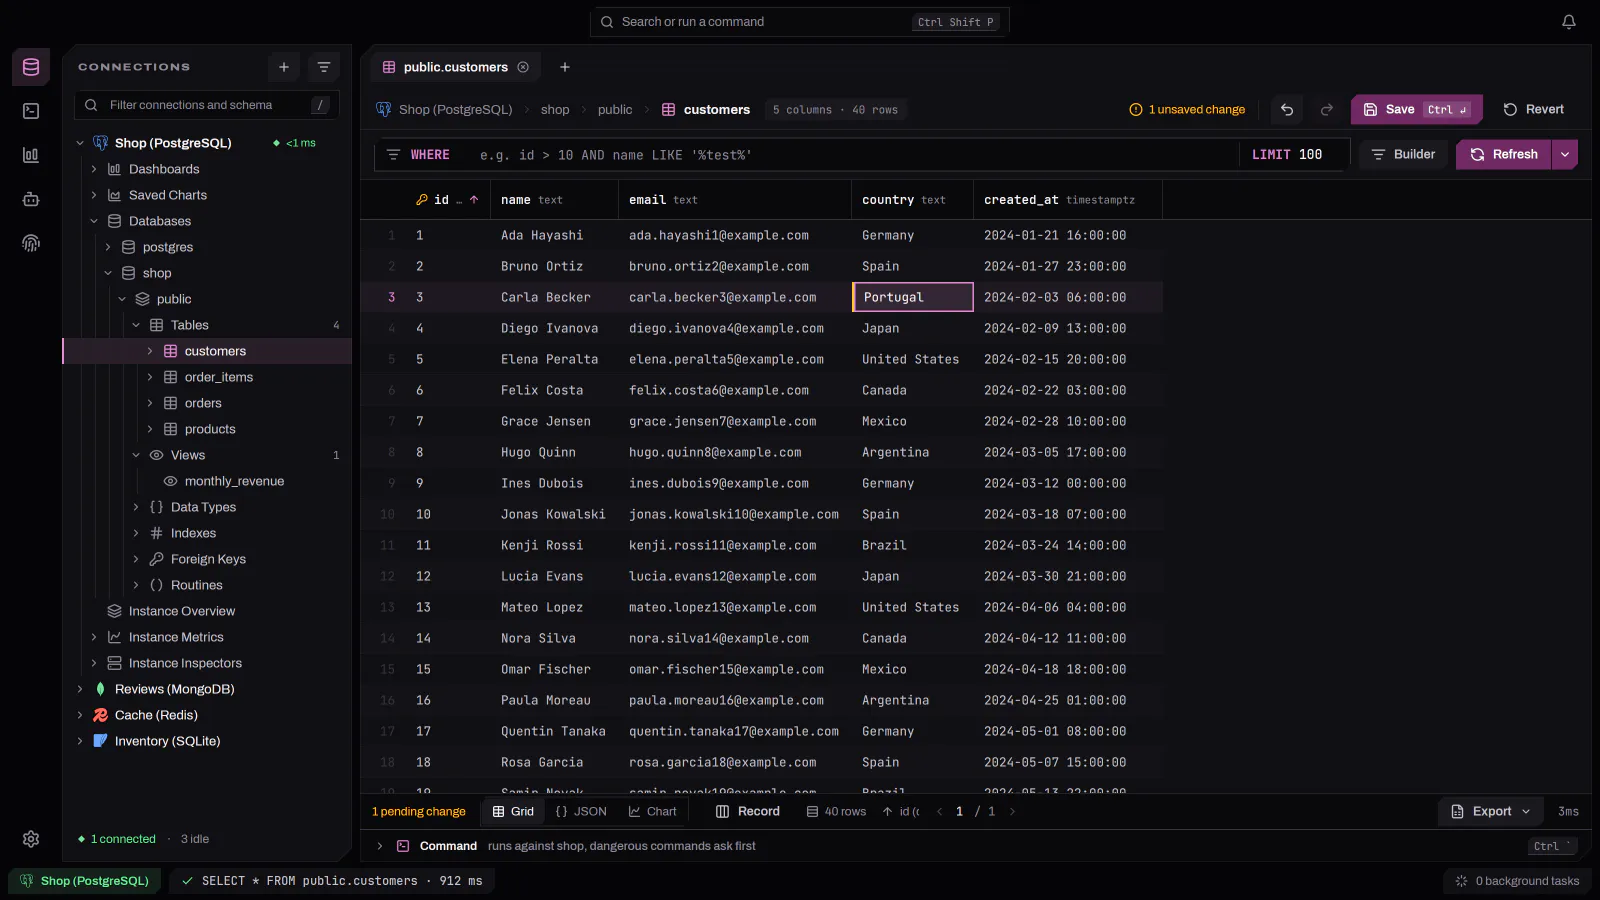
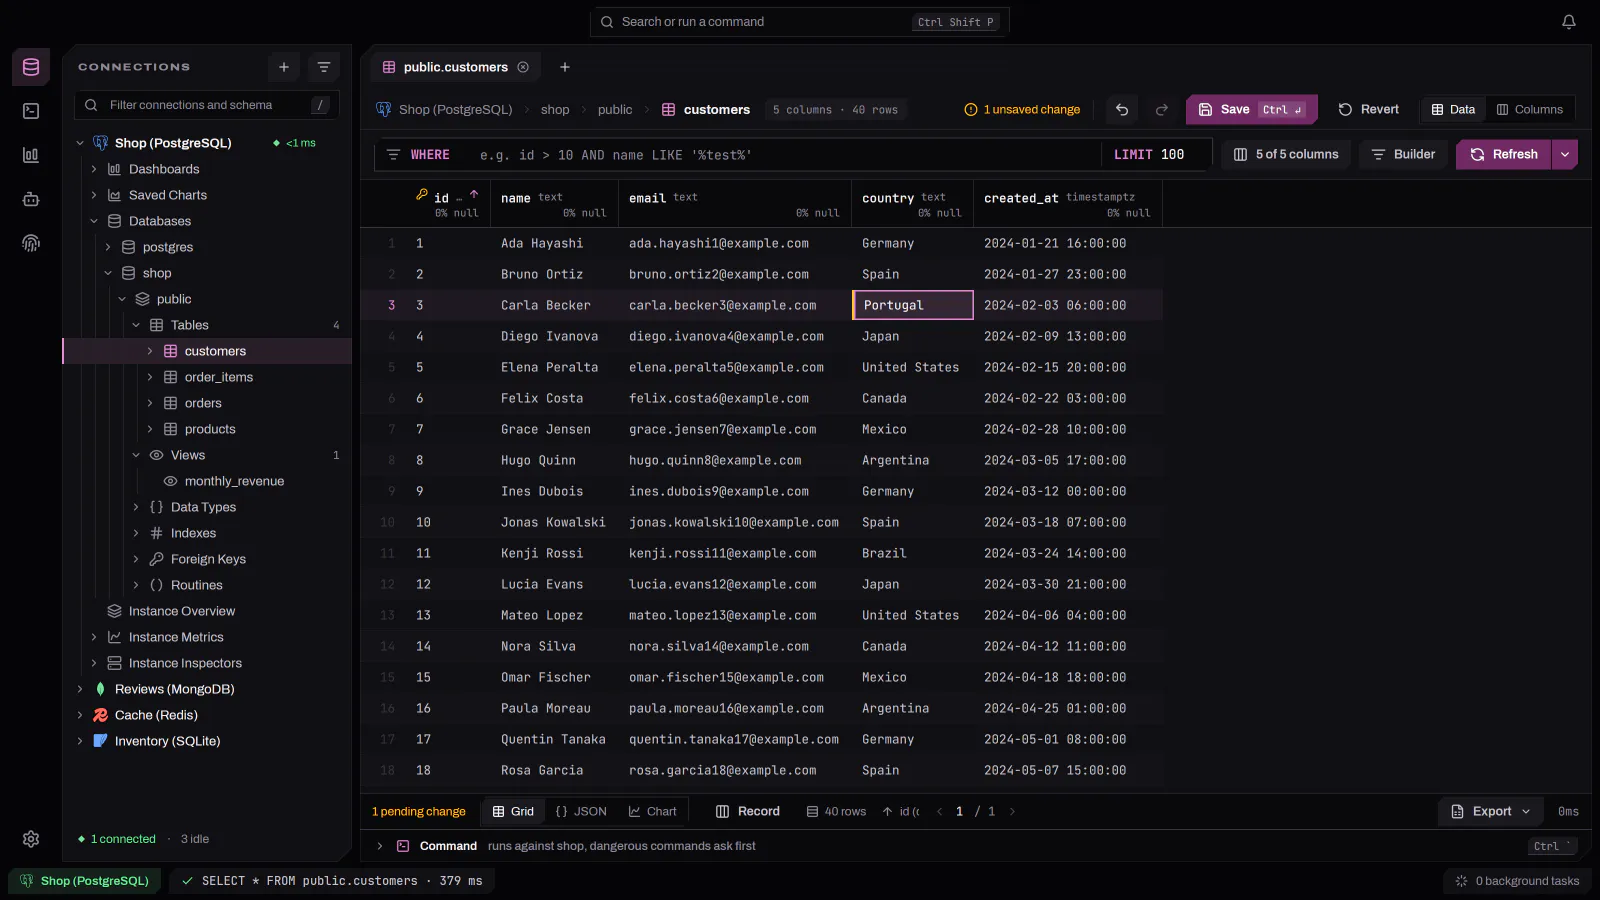
docs: update table screenshots and add the Columns view

diff --git a/scripts/docs_screenshots.py b/scripts/docs_screenshots.py
@@ -477,8 +477,13 @@ class McpSession:
 
         return result
 
-    def find(self, label: str, *, exact: bool = True) -> list[dict]:
-        result = self.call("find_elements", {"query": label, "exact": exact})
+    def find(self, label: str, *, exact: bool = True, role: str | None = None) -> list[dict]:
+        query = {"query": label, "exact": exact}
+
+        if role is not None:
+            query["role"] = role
+
+        result = self.call("find_elements", query)
 
         return result.get("structuredContent", {}).get("elements", [])
 
@@ -766,11 +771,11 @@ def fill_placeholders(value, placeholders: dict[str, str]):
 
 
 def find_labelled(session: McpSession, arguments: dict) -> dict:
-    """The element labelled `label`, taking the `index`-th match."""
+    """The element labelled `label`, taking the `index`-th match, of `role` when one is given."""
 
     label = arguments["label"]
     index = arguments.get("index", 0)
-    matches = session.find(label, exact=arguments.get("exact", True))
+    matches = session.find(label, exact=arguments.get("exact", True), role=arguments.get("role"))
 
     if len(matches) <= index:
         raise ScreenshotError(f"no element labelled {label!r} (match {index}) is visible")
@@ -805,7 +810,7 @@ def resolve_label(session: McpSession, arguments: dict) -> dict:
     if "label" not in arguments:
         return arguments
 
-    resolved = {key: value for key, value in arguments.items() if key not in ("label", "exact", "index")}
+    resolved = {key: value for key, value in arguments.items() if key not in ("label", "exact", "index", "role")}
     resolved["id"] = find_labelled(session, arguments)["id"]
 
     return resolved

diff --git a/scripts/docs_screenshots/shots.py b/scripts/docs_screenshots/shots.py
@@ -94,8 +94,13 @@ def click(element_id: str) -> Step:
     return call("click_element", id=element_id)
 
 
-def click_label(label: str, *, exact: bool = True) -> Step:
-    return Step("click_label", {"label": label, "exact": exact})
+def click_label(label: str, *, exact: bool = True, role: str | None = None) -> Step:
+    arguments: dict = {"label": label, "exact": exact}
+
+    if role is not None:
+        arguments["role"] = role
+
+    return Step("click_label", arguments)
 
 
 def set_text(element_id: str, text: str) -> Step:
@@ -173,8 +178,10 @@ def open_sidebar_item(label: str, loaded: str, *, exact: bool = False) -> tuple[
     the selection: pressed on another row it would open that one.
     """
 
+    # The row's expand arrow carries the row's name too, so the click targets
+    # the tree item itself.
     return (
-        ensure(wait_selected(label), click_label(label)),
+        ensure(wait_selected(label), click_label(label, role="tree_item")),
         ensure(wait_for(loaded, exact=exact), key("enter")),
     )
 
@@ -488,6 +495,16 @@ SHOTS = (
                 call("set_text", input_value="Brazil", text="Portugal"),
                 key("enter"),
             ),
+        ),
+    ),
+    Shot(
+        page="table-views",
+        name="columns",
+        steps=(
+            *open_customers_table(),
+            # The connection toast covers the view switch until it closes.
+            wait_gone(r"^toast-\d"),
+            ensure(wait_for("Filter columns"), click("segmented-table-view-columns")),
         ),
     ),
     Shot(

diff --git a/docs/TABLE_VIEWS.md b/docs/TABLE_VIEWS.md
@@ -29,6 +29,11 @@ status bar; the header stays.
 
 ## The Columns view
 
+<picture>
+  <source media="(prefers-color-scheme: dark)" srcset="images/table-views/columns-dark.webp">
+  <img src="images/table-views/columns-light.webp" alt="The Columns view of a PostgreSQL customers table, with the table facts above and one row per column with its distinct values, nulls and range">
+</picture>
+
 One row per column, in table order, with the facts the source knows. A fact
 the source does not know is a dash, never a zero.
 
@@ -118,9 +123,10 @@ ESTIMATE` over the query the grid last ran, so a filter on the sort or
 partition key shows its effect once you run it. A filter still being typed
 does not change the estimate.
 
-A filter with a subquery (`id IN (SELECT …)`) gets no estimate: ClickHouse
-runs the subquery while it plans the read, so the estimate would cost as much
-as the subquery.
+A filter with a subquery (`id IN (SELECT …)`) or with `IN` followed by a
+table name (`id IN other_table`) gets no estimate: ClickHouse reads the
+subquery or table while it plans the read, so the estimate would cost as much
+as that read.
 
 The figure is an upper bound. A `LIMIT` can stop the read sooner than the
 estimate says. The bytes are also an approximation: each read column's size
